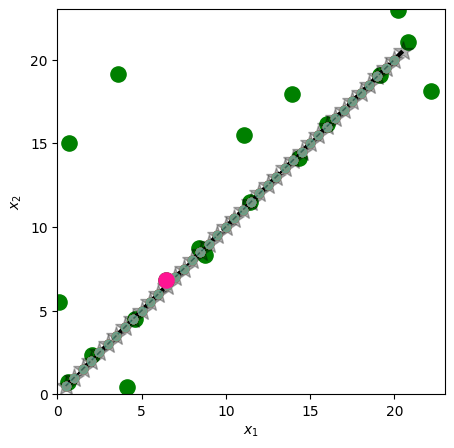
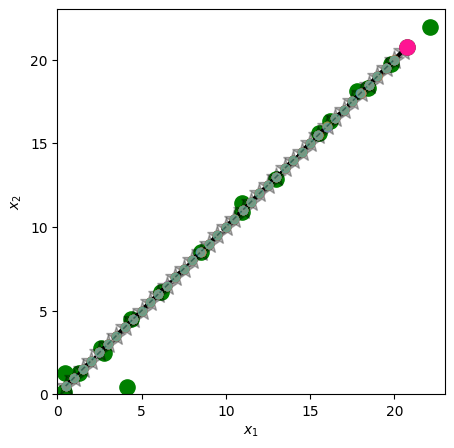
its working but is very slow

diff --git a/project_name/main_test.py b/project_name/main_test.py
@@ -43,6 +43,7 @@ from gpjax.typing import (
 import neatplot
 from typing import NamedTuple
 import numpy as np
+import time
 
 config.update("jax_enable_x64", True)
 
@@ -204,73 +205,84 @@ def return_optimised_posterior(data: gpjax.Dataset, prior: gpjax.gps.Prior, key)
 
 def sample_and_optimize_posterior(optimized_posteriors, D, key, lower_bound, upper_bound, num_samples=20):
     """Sample from posteriors and optimize."""
-    samples = []
-    for gp_idx, posterior in enumerate(optimized_posteriors):
-        key, _key = jr.split(key)
-        data = gpjax.Dataset(X=D.X, y=jnp.expand_dims(D.y[:, gp_idx], axis=-1))
-        sample_SB = posterior.sample_approx(num_samples=1, train_data=data, key=_key, num_features=500)
-        samples.append(sample_SB)
-
-    # do it for 40 steps
-    def _create_exe_path(x_init_NO, unused):  # TODO THIS DOES NOTHING AS THE SAME SAMPLES ARE USED BUT WITH MORE POINTS
-        y_1_NB = samples[0](x_init_NO)
-        y_2_NB = samples[1](x_init_NO)
-
-        y_tot_NO = jnp.concatenate((y_1_NB, y_2_NB), axis=-1)
-
-        next_x_NO = x_init_NO + y_tot_NO  # TODO still only does one step predictions can we draw multi-step samples quickly using pathwise stuff? I guess not as GP is homoskedastic?
-        next_x = jnp.clip(next_x_NO, jnp.array((domain[0][0], domain[1][0])), jnp.array((domain[0][1], domain[1][1])))
-        path = ExPath(x_init_NO, y_tot_NO)
-
-        return next_x, path
-
-    init_x = jnp.tile(jnp.expand_dims(jnp.array((0.5, 0.5)), axis=0), (num_samples, 1))
-    # init_x = jnp.expand_dims(jnp.array((0.5, 0.5)), axis=0)
-    _, exe_path = jax.lax.scan(_create_exe_path, init_x, None, 40)
-    exe_path = jax.tree_util.tree_map(lambda x: jnp.swapaxes(x, 0, 1), exe_path)
-    # TODO again dodgy above, should try to fix so that num_samples from posterior is actuallly used
-
-    x_star_list = optimise_sample(samples, optimized_posteriors, D, key, lower_bound, upper_bound, exe_path.x,
-                                  exe_path.y, num_initial_sample_points=1000)
-    return x_star_list, exe_path.x
-
-def sample_and_optimize_posterior_unsure(optimized_posteriors, D, key, lower_bound, upper_bound, num_samples=20):
-    """Sample from posteriors and optimize."""
-    samples = []
-    for gp_idx, posterior in enumerate(optimized_posteriors):
-        key, _key = jr.split(key)
-        data = gpjax.Dataset(X=D.X, y=jnp.expand_dims(D.y[:, gp_idx], axis=-1))
-        sample_SB = posterior.sample_approx(num_samples=num_samples, train_data=data, key=_key, num_features=500)
-        samples.append(sample_SB)
-
-    def _multisample_exe_path(init_x, curr_samples):
-        def _create_exe_path(x_init, unused):  # TODO should we use samples or something else for this even?
-            y_1_SB = curr_samples[0](x_init)
-            y_2_SB = curr_samples[1](x_init)
-
-            y_tot = jnp.concatenate((y_1_SB, y_2_SB),
-                                    axis=-1)  # TODO this is dodge as it goes from SB to B1 but if S is > 1 then it not good
-
-            next_x = x_init + y_tot  # TODO still only does one step predictions can we draw multi-step samples quickly using pathwise stuff? I guess not as GP is homoskedastic?
-            next_x = jnp.clip(next_x, jnp.array((domain[0][0], domain[1][0])), jnp.array((domain[0][1], domain[1][1])))
-            path = ExPath(jnp.squeeze(x_init, axis=0), jnp.squeeze(y_tot, axis=0))
-
-            return next_x, path
-
-        _, exe_path = jax.lax.scan(_create_exe_path, init_x, None, 40)
-
-        return exe_path
-
+    # samples = []
+    # for gp_idx, posterior in enumerate(optimized_posteriors):
+    #     key, _key = jr.split(key)
+    #     data = gpjax.Dataset(X=D.X, y=jnp.expand_dims(D.y[:, gp_idx], axis=-1))
+    #     sample_func = posterior.sample_approx(num_samples=num_samples, train_data=data, key=_key, num_features=500)
+    #     samples.append(sample_func)
+    #
+    # # do it for 40 steps
+    # def _env_step(x_init_O, unused):
+    #     x_init_1O = jnp.expand_dims(x_init_O, axis=0)
+    #     y_1_NB = samples[0](x_init_1O)
+    #     y_2_NB = samples[1](x_init_1O)
+    #
+    #     y_tot_1O = jnp.concatenate((y_1_NB, y_2_NB), axis=-1)
+    #
+    #     next_x_1O = x_init_1O + y_tot_1O  # TODO still only does one step predictions can we draw multi-step samples quickly using pathwise stuff? I guess not as GP is homoskedastic?
+    #     next_x_1O = jnp.clip(next_x_1O, jnp.array((domain[0][0], domain[1][0])), jnp.array((domain[0][1], domain[1][1])))
+    #     path = ExPath(x_init_1O, y_tot_1O)
+    #
+    #     return jnp.squeeze(next_x_1O, axis=0), path
+    #
+    # vmapped_step = jax.vmap(_env_step, in_axes=(0, None), out_axes=0)
+    #
+    # def _create_exe_path(positions, unused):
+    #     next_positions, path_info = vmapped_step(positions, None)
+    #     return next_positions, path_info
+    #
     # init_x = jnp.tile(jnp.expand_dims(jnp.array((0.5, 0.5)), axis=0), (num_samples, 1))
-    init_x = jnp.expand_dims(jnp.array((0.5, 0.5)), axis=0)
-    multisample_exe_path = jax.vmap(_multisample_exe_path, in_axes=(None, 0))(init_x, samples[0])
+    # # init_x = jnp.expand_dims(jnp.array((0.5, 0.5)), axis=0)
+    # _, exe_path = jax.lax.scan(_create_exe_path, init_x, None, 40)
+    # exe_path = jax.tree_util.tree_map(lambda x: jnp.swapaxes(x, 0, 1), exe_path)
 
+    # Function to apply a sample function at a specific point
+    def apply_sample_func(posterior, gp_idx, sample_key, x):
+        data = gpjax.Dataset(X=D.X, y=jnp.expand_dims(D.y[:, gp_idx], axis=-1))
+        sample_func = posterior.sample_approx(num_samples=1, train_data=data, key=sample_key, num_features=500)
+        return sample_func(x)
 
-    x_star_list = optimise_sample(samples, optimized_posteriors, D, key, lower_bound, upper_bound, exe_path.x,
-                                  exe_path.y, num_initial_sample_points=1000)
+    def step_fn(carry, _):
+        x, sample_keys = carry
+
+        predictions = []
+        for gp_idx, posterior in enumerate(optimized_posteriors):
+            y = apply_sample_func(posterior, gp_idx, sample_keys[gp_idx], x)
+            predictions.append(y)
+
+        y_tot = jnp.concatenate(predictions, axis=-1)
+
+        next_x = jnp.clip(x + y_tot, jnp.array([domain[0][0], domain[1][0]]), jnp.array([domain[0][1], domain[1][1]]))
+
+        return (next_x, sample_keys), (x, y_tot)
+
+    vmapped_step_fn = jax.vmap(step_fn, in_axes=(0, None), out_axes=(0, 0))
+
+    num_gps = len(optimized_posteriors)
+    key, subkey = jrandom.split(key)
+    all_keys = jrandom.split(subkey, num_samples * num_gps)
+    sample_keys = all_keys.reshape((num_samples, num_gps, 2))
+
+    # Create initial state for all samples
+    init_x = jnp.array([[0.5, 0.5]])
+    init_xs = jnp.tile(init_x, (num_samples, 1, 1))
+
+    # Set up the scan to run for 40 steps
+    init_carry = (init_xs, jnp.array(sample_keys))
+    (_, _), (all_xs, all_ys) = jax.lax.scan(lambda c, _: vmapped_step_fn(c, None), init_carry, None, length=40)
+
+    def create_path(xs, ys):
+        return ExPath(jnp.squeeze(xs, axis=1), jnp.squeeze(ys, axis=1))
+
+    all_paths = jax.vmap(create_path)(all_xs, all_ys)
+    exe_path = jax.tree_util.tree_map(lambda x: jnp.swapaxes(x, 0, 1), all_paths)
+
+    x_star_list = optimise_sample(optimized_posteriors, D, key, lower_bound, upper_bound, exe_path.x, exe_path.y,
+                                  num_initial_sample_points=1000)
     return x_star_list, exe_path.x
 
-def optimise_sample(sample, optimized_posteriors, D, key, lower_bound, upper_bound, exe_path_x, exe_path_y, num_initial_sample_points):
+def optimise_sample(optimized_posteriors, D, key, lower_bound, upper_bound, exe_path_x, exe_path_y, num_initial_sample_points):
     key, _key = jr.split(key)
     initial_sample_points = jr.uniform(_key, shape=(num_initial_sample_points, lower_bound.shape[0]), dtype=jnp.float64,
                                        minval=lower_bound, maxval=upper_bound)
@@ -362,6 +374,7 @@ D = gpjax.Dataset(X=init_x, y=init_y)
 output_dims = 2  # TODO can change this for later
 gp_models = create_gp_models(output_dims)
 
+start_time = time.time()
 for i in range(bo_iters):
     print("---" * 5 + f" Start iteration i={i} " + "---" * 5)
     # Generate optimised posterior
@@ -400,9 +413,4 @@ for i in range(bo_iters):
     if save_figure:
         neatplot.save_figure(f"bax_multi_new{i}", "png")
 
-
-
-
-
-
-
+print(time.time() - start_time)
